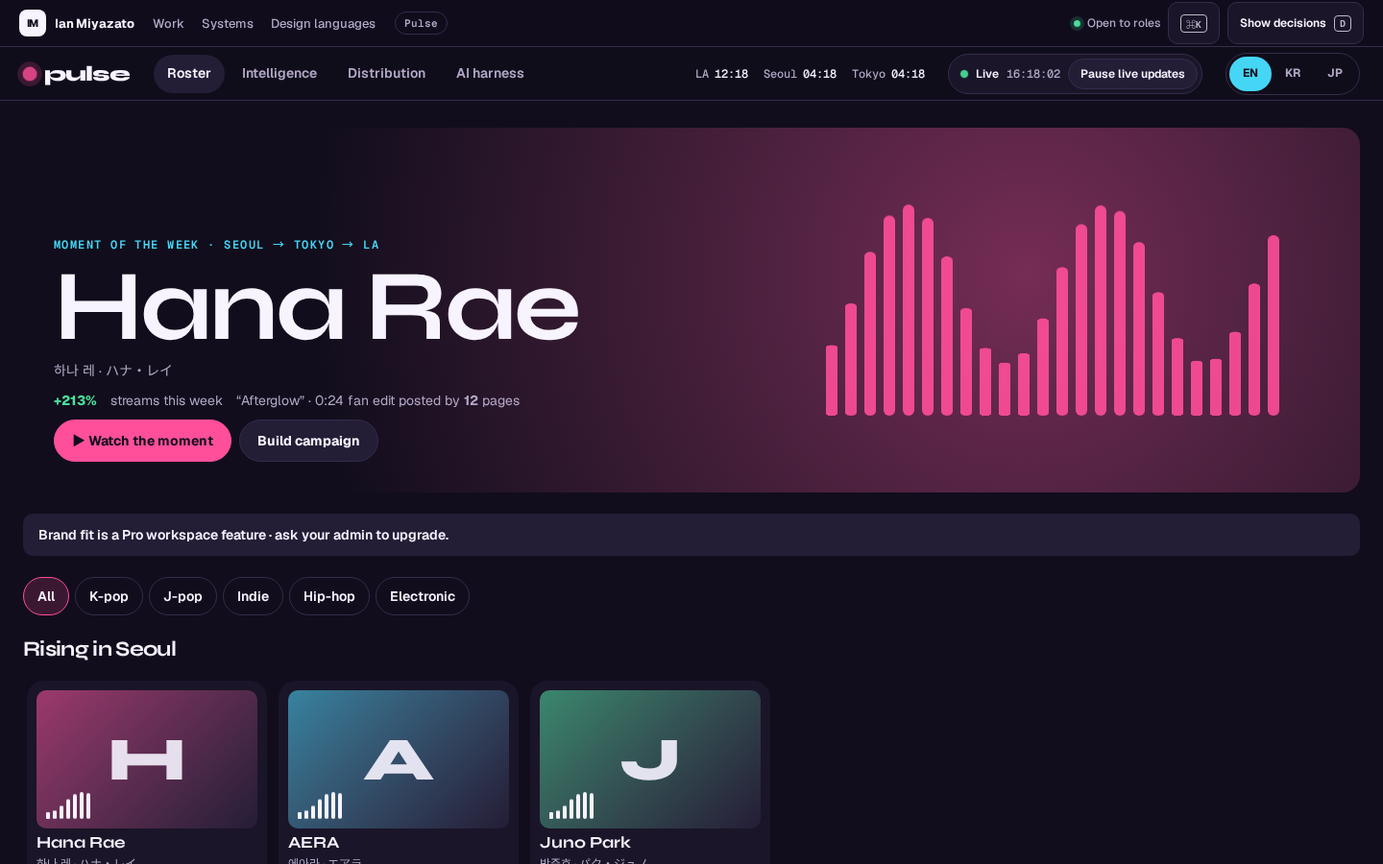
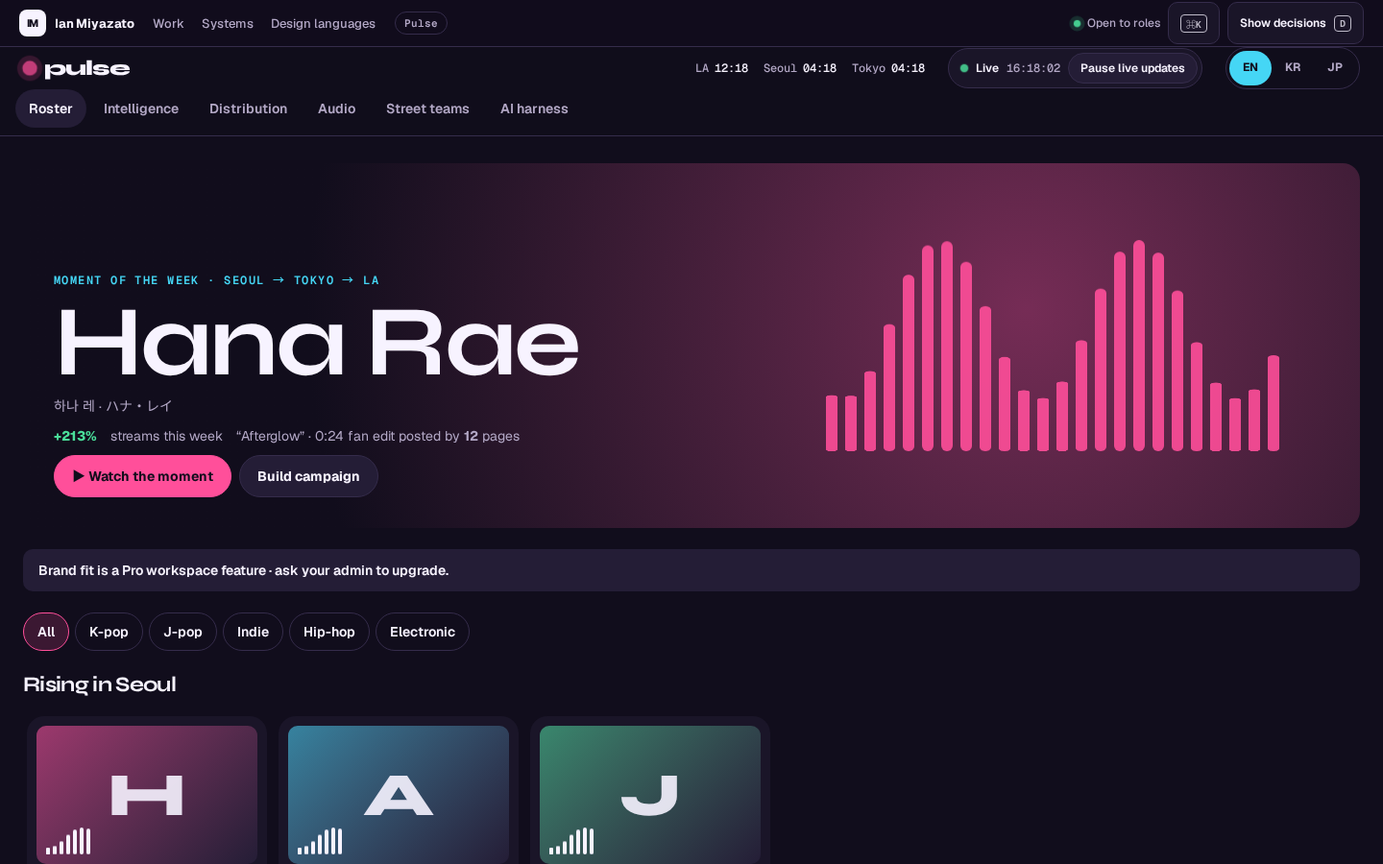
feat(pulse): street team dispatch on a drawn Seoul map, replayed on the world clock

diff --git a/apps/pulse/src/routes/street-teams/+page.svelte b/apps/pulse/src/routes/street-teams/+page.svelte
@@ -1,0 +1,119 @@
+<script lang="ts">
+  import { view } from '$lib/view.svelte';
+  import { live } from '$lib/world.svelte';
+  import { params } from '$lib/params.svelte';
+  import Layer from '$lib/Layer.svelte';
+  import { EVENT_AT, NEEDED, REPLAY_MINUTES, REPLAY_START, REROUTE_ID, SPEED, along, creators, districts, heat, kst, lengthOf, pathOf, reserve, river, roads, toHongdae, type Creator, type Point } from '$lib/streetteams';
+
+  type Trip = { creator: Creator; route: Point[]; start: number; minutes: number; toVenue: boolean };
+
+  const canceled = $derived(view.state === 'error');
+  // Replay minute (0–50 after 18:20 KST), driven by sim time: pause, 10× and 60× apply.
+  const minute = $derived((live.elapsed / 60) % REPLAY_MINUTES);
+  const clockKst = $derived(kst(REPLAY_START + minute));
+
+  let extra = $state<Trip[]>([]);
+  let rerouted = $state<Trip | null>(null);
+  let briefSent = $state(false);
+
+  const base = $derived<Trip[]>(creators.map((creator) => ({ creator, route: creator.route, start: creator.start, minutes: creator.minutes, toVenue: creator.id !== REROUTE_ID })));
+  const trips = $derived([...base.map((trip) => (rerouted && trip.creator.id === REROUTE_ID ? rerouted : trip)), ...extra]);
+  const progress = (trip: Trip) => Math.max(0, Math.min(1, (minute - trip.start) / trip.minutes));
+  const eta = (trip: Trip) => Math.max(0, Math.ceil(trip.start + trip.minutes - minute));
+  const onSite = $derived(trips.filter((trip) => trip.toVenue && progress(trip) >= 1).length);
+  const assigned = $derived(trips.filter((trip) => trip.toVenue).length);
+  const posts = $derived(Math.round(trips.filter((trip) => trip.toVenue).reduce((sum, trip) => sum + Math.max(0, minute - (trip.start + trip.minutes)) * 0.6, 0) + minute * 0.4));
+  const views = $derived(Math.round(posts * 3_850 + minute * 900));
+
+  function dispatch() {
+    if (extra.length) return;
+    extra = [{ creator: reserve, route: reserve.route, start: minute, minutes: reserve.minutes, toVenue: true }];
+  }
+  function acceptReroute() {
+    const trip = base.find((item) => item.creator.id === REROUTE_ID)!;
+    const from = along(trip.route, progress(trip));
+    const route: Point[] = [from, ...toHongdae];
+    rerouted = { creator: trip.creator, route, start: minute, minutes: Math.max(4, Math.round(lengthOf(route) / SPEED)), toVenue: true };
+  }
+</script>
+
+<svelte:head><title>Pulse · Street teams</title><meta name="description" content="Dispatch creators to a Seoul pop-up: fan-density heat, routes, ETAs and an AI re-route, replayed on the world clock." /></svelte:head>
+
+<main class="pl-main st" data-anchor="st-main">
+  <header class="st-head">
+    <div><span class="pl-kicker">Street teams · replay of last night, on the world clock</span><h1>Street teams</h1></div>
+    <p class="st-clock" data-anchor="st-clock"><span class="live-dot" aria-hidden="true"></span> Seoul <b>{clockKst}</b> KST · replay {Math.floor(minute)} of {REPLAY_MINUTES} min</p>
+  </header>
+
+  {#if canceled}<p class="pl-banner risk" role="status" data-anchor="st-canceled">Canceled for heavy rain at 18:05 KST · an automatic brief went to all {assigned} creators: “Stay dry, you're paid in full, reschedule vote at 20:00.”</p>{/if}
+
+  <div class="st-layout">
+    <section class="st-map" aria-label="Seoul map with fan density and creator routes" data-anchor="st-map">
+      <svg viewBox="0 0 800 520" role="img" aria-label="Fan density is highest in Hongdae. {onSite} creators on site, {assigned - onSite} en route.">
+        <defs>{#each heat as zone, index}<radialGradient id="heat-{index}"><stop offset="0" stop-color="var(--accent)" stop-opacity={zone.level * 0.7} /><stop offset="1" stop-color="var(--accent)" stop-opacity="0" /></radialGradient>{/each}</defs>
+        <rect width="800" height="520" class="st-land" />
+        {#each roads as d}<path {d} class="st-road" />{/each}
+        <path d={river} class="st-river" />
+        {#each heat as zone, index}<circle cx={zone.at[0]} cy={zone.at[1]} r={zone.r} fill="url(#heat-{index})" class="st-heat" />{/each}
+        {#each districts as district}<text x={district.at[0]} y={district.at[1] - 16} class="st-label">{district.name}</text>{/each}
+        <g class="st-pin" transform="translate(150 205)"><circle r="16" class="st-pulse" /><circle r="7" /></g>
+        <g class="st-pin backup" transform="translate(600 222)"><circle r="6" /></g>
+        {#each trips as trip (trip.creator.id)}
+          {@const [x, y] = along(trip.route, progress(trip))}
+          <path d={pathOf(trip.route)} class="st-route" class:off={canceled || !trip.toVenue} />
+          <g class="st-creator" class:arrived={progress(trip) >= 1} class:off={canceled} style="transform:translate({x}px,{y}px)"><circle r="9" /><text y="4">{trip.creator.name[0]}</text></g>
+        {/each}
+      </svg>
+    </section>
+
+    <aside class="st-side">
+      <section class="pl-panel st-event" aria-labelledby="st-event-title" data-anchor="st-event">
+        <header><h2 id="st-event-title">Hongdae pop-up · {kst(EVENT_AT)}</h2>{#if !canceled}<span class="st-surge">Surge · 2.3× fans</span>{/if}</header>
+        <p class="pl-muted">Needs {NEEDED} creators · {onSite} on site · {assigned - onSite} en route</p>
+        <div class="st-fill" role="progressbar" aria-label="Creators on site" aria-valuemin={0} aria-valuemax={NEEDED} aria-valuenow={onSite}><i style="transform:scaleX({canceled ? 0 : onSite / NEEDED})"></i><i class="pending" style="transform:scaleX({canceled ? 0 : Math.min(1, assigned / NEEDED)})"></i></div>
+        <ul class="st-list">
+          {#each trips as trip (trip.creator.id)}
+            <li class:muted={!trip.toVenue}>
+              <span class="st-av">{trip.creator.name[0]}</span>
+              <span><b>{trip.creator.name}</b> <span lang="ko">{trip.creator.local}</span><small>{trip.creator.followers} followers · from {trip.creator.from}</small></span>
+              <span class="st-status">{canceled ? 'released · paid' : !trip.toVenue ? 'to Seongsu backup' : progress(trip) >= 1 ? 'on site' : progress(trip) <= 0 ? `leaves in ${Math.ceil(trip.start - minute)} min` : `${eta(trip)} min away`}</span>
+            </li>
+          {/each}
+        </ul>
+        <div class="st-actions">
+          <button type="button" class="pl-btn primary" onclick={dispatch} disabled={canceled || extra.length > 0} data-anchor="st-dispatch">{extra.length ? 'Doyun dispatched' : 'Dispatch 1 more'}</button>
+          <button type="button" class="pl-btn" onclick={() => params.open({ brief: '1' })} disabled={canceled}>Broadcast brief</button>
+        </div>
+      </section>
+
+      <section class="pl-panel st-coverage" aria-labelledby="st-cov-title" data-anchor="st-coverage">
+        <h2 id="st-cov-title">Live coverage · last 40 min</h2>
+        <dl><div><dt>Posts</dt><dd>{canceled ? 0 : posts}</dd></div><div><dt>Views</dt><dd>{canceled ? 0 : views.toLocaleString('en-US')}</dd></div></dl>
+        {#if !canceled}
+          <section class="ai-surface ai-inline" aria-label="Simulated AI: re-route" data-anchor="st-reroute">
+            <header class="ai-head"><span class="ai-spark" aria-hidden="true"></span><span class="ai-badge">Simulated AI</span><span class="ai-meta">density · routes · followers</span></header>
+            <p class="ai-body">{rerouted ? 'Taeyang is now heading to Hongdae exit 9.' : 'Seongsu is quiet (0.55 density). Send Taeyang to Hongdae exit 9 instead: fans there are 2.3× and his 240k followers skew Seoul.'}</p>
+            <ul class="ai-sources"><li class="ai-source">fan density · Hongdae <b>0.92</b></li><li class="ai-source">route time <b>0.88</b></li></ul>
+            <div class="ai-actions"><button type="button" class="ai-approve" onclick={acceptReroute} disabled={Boolean(rerouted)}>{rerouted ? 'Re-routed' : 'Accept re-route'}</button></div>
+          </section>
+        {/if}
+      </section>
+    </aside>
+  </div>
+</main>
+
+{#if params.get('brief') === '1'}
+  <Layer title="Brief for {assigned} creators" eyebrow="Hongdae pop-up · {kst(EVENT_AT)} KST" onclose={() => params.close(['brief'])} width={560} anchor="st-brief">
+    <ul class="st-brief">
+      <li><b>Shot list</b> 3 verticals: the queue at exit 9, the Afterglow hook on the speakers, one reaction.</li>
+      <li><b>Captions</b> Korean first, English second; tag #Afterglow and the venue.</li>
+      <li><b>Timing</b> First post by 19:05, the rest before 19:40.</li>
+      <li><b>Pay</b> Base fee plus a bonus above 50k views, paid through the Pulse wallet.</li>
+    </ul>
+    {#if briefSent}<p class="pl-banner info" role="status">Brief sent to {assigned} creators · read receipts arrive here</p>{/if}
+    {#snippet footer()}
+      <button type="button" class="pl-btn primary" onclick={() => (briefSent = true)} disabled={briefSent}>{briefSent ? 'Sent' : `Send to ${assigned} creators`}</button>
+      <button type="button" class="pl-btn" onclick={() => params.close(['brief'])}>Close</button>
+    {/snippet}
+  </Layer>
+{/if}

diff --git a/apps/pulse/src/app.css b/apps/pulse/src/app.css
@@ -3,8 +3,10 @@
 .pl-nav { position: sticky; top: 48px; z-index: 60; display: flex; align-items: center; gap: 24px; min-height: 56px; padding: 0 24px; border-bottom: 1px solid var(--line); background: color-mix(in srgb, var(--ground) 90%, transparent); backdrop-filter: blur(12px); }
 .pl-logo { display: flex; align-items: center; gap: 8px; font: 800 22px var(--font-display); letter-spacing: -.04em; }
 .pl-logo i { width: 14px; height: 14px; border-radius: 50%; background: var(--accent); box-shadow: 0 0 0 5px color-mix(in srgb, var(--accent) 22%, transparent); animation: breathe 1.8s ease-in-out infinite; }
-.pl-nav nav { display: flex; gap: 4px; }
-.pl-nav nav a { display: inline-flex; align-items: center; min-height: 40px; padding: 0 14px; border-radius: 999px; color: var(--muted); font-weight: 600; }
+.pl-nav { flex-wrap: wrap; row-gap: 0; }
+/* Eight sections: the nav gets its own tab row under the logo, clocks and controls. */
+.pl-nav nav { order: 5; display: flex; gap: 4px; flex-basis: 100%; margin: 0 -8px; padding: 0 0 8px; overflow-x: auto; scrollbar-width: none; }
+.pl-nav nav a { display: inline-flex; align-items: center; flex: none; min-height: 40px; padding: 0 14px; white-space: nowrap; border-radius: 999px; color: var(--muted); font-weight: 600; }
 .pl-nav nav a[aria-current='page'] { background: var(--surface-2); color: var(--ink); }
 .pl-clocks { display: flex; gap: 16px; margin: 0 0 0 auto; padding: 0; list-style: none; font: 500 12px var(--font-mono); }
 .pl-clocks span { margin-right: 6px; color: var(--muted); }
@@ -248,3 +250,48 @@
 .pa-wave.small { width: 100%; height: 80px; }
 @media (prefers-reduced-motion: reduce) { .pa-record.spinning { animation: none; } .pa-playhead { transition: none; } }
 @media (max-width: 900px) { .pa-head { grid-template-columns: 1fr; } .pa-record { width: 120px; height: 120px; } .pa-grid { grid-template-columns: 1fr; } }
+
+/* Street team dispatch ------------------------------------------------------------------------------ */
+.st-head { display: flex; justify-content: space-between; align-items: end; gap: 12px; flex-wrap: wrap; }
+.st-head h1 { margin: 4px 0 0; font: var(--display-weight) 48px/1 var(--font-display); letter-spacing: var(--display-tracking); }
+.st-clock { display: inline-flex; align-items: center; gap: 8px; margin: 0; font: 500 13px var(--font-mono); }
+.st-clock b { font-size: 16px; color: var(--ink); }
+.st-layout { display: grid; grid-template-columns: minmax(0, 1fr) 400px; gap: 16px; align-items: start; }
+.st-map { overflow: hidden; border: 1px solid var(--line); border-radius: var(--radius); background: var(--surface); }
+.st-map svg { display: block; width: 100%; height: auto; }
+.st-land { fill: var(--surface); }
+.st-road { stroke: var(--line); stroke-width: 6; stroke-linecap: round; fill: none; }
+.st-river { fill: color-mix(in srgb, var(--ai) 22%, var(--surface-2)); }
+.st-label { fill: var(--muted); font: 600 13px var(--font-ui); text-anchor: middle; }
+.st-pin circle:last-child { fill: var(--accent); stroke: var(--ground); stroke-width: 3; }
+.st-pin.backup circle { fill: var(--muted); }
+.st-pulse { fill: none; stroke: var(--accent); stroke-width: 2; transform-box: fill-box; transform-origin: center; animation: pulse-ring 2s ease-out infinite; }
+.st-route { fill: none; stroke: var(--ai); stroke-width: 3; stroke-dasharray: 2 7; stroke-linecap: round; }
+.st-route.off { stroke: var(--muted); opacity: .5; }
+.st-creator { transition: transform 1s linear; }
+.st-creator circle { fill: var(--ai); stroke: var(--ground); stroke-width: 3; }
+.st-creator.arrived circle { fill: var(--success); }
+.st-creator.off circle { fill: var(--muted); }
+.st-creator text { fill: var(--ai-ink); font: 700 11px var(--font-ui); text-anchor: middle; }
+.st-side { display: grid; gap: 16px; }
+.st-event header { display: flex; justify-content: space-between; align-items: center; gap: 8px; }
+.st-event h2, .st-coverage h2 { margin: 0; }
+.st-surge { padding: 3px 10px; border-radius: 999px; background: var(--warn); color: var(--accent-ink); font: 700 12px var(--font-mono); }
+.st-fill { position: relative; height: 10px; overflow: hidden; border-radius: 10px; background: var(--surface-2); }
+.st-fill i { position: absolute; inset: 0; background: var(--success); transform-origin: left; transition: transform .6s var(--ease); z-index: 1; }
+.st-fill i.pending { z-index: 0; background: color-mix(in srgb, var(--ai) 40%, var(--surface-2)); }
+.st-list { display: grid; gap: 6px; margin: 0; padding: 0; list-style: none; }
+.st-list li { display: grid; grid-template-columns: 32px 1fr auto; gap: 10px; align-items: center; font-size: 14px; }
+.st-list li.muted { color: var(--muted); }
+.st-list small { display: block; color: var(--muted); font-size: 12px; }
+.st-av { display: grid; place-items: center; width: 32px; height: 32px; border-radius: 50%; background: var(--surface-2); font-weight: 700; }
+.st-status { font: 600 12px var(--font-mono); text-align: right; }
+.st-actions { display: flex; flex-wrap: wrap; gap: 8px; }
+.st-coverage dl { display: grid; grid-template-columns: 1fr 1fr; gap: 8px; margin: 0; }
+.st-coverage dt { color: var(--muted); font: 500 12px var(--font-mono); }
+.st-coverage dd { margin: 2px 0 0; font: 700 26px var(--font-display); font-variant-numeric: tabular-nums; }
+.st-brief { display: grid; gap: 8px; margin: 0; padding: 0; list-style: none; }
+.st-brief li { padding: 10px 12px; border-radius: var(--radius-sm); background: var(--surface-2); }
+.st-brief b { display: block; }
+@media (prefers-reduced-motion: reduce) { .st-pulse { animation: none; } .st-creator, .st-fill i { transition: none; } }
+@media (max-width: 1000px) { .st-layout { grid-template-columns: 1fr; } }

diff --git a/apps/pulse/src/lib/streetteams.ts b/apps/pulse/src/lib/streetteams.ts
@@ -1,0 +1,59 @@
+/**
+ * Street team dispatch for last night's Hongdae pop-up, replayed on the world clock: one second of
+ * sim time is one second of the replay, so Pause, 10× and 60× work here too. Map is drawn SVG (no tiles).
+ */
+export type Point = [number, number];
+export type Creator = { id: string; name: string; local: string; from: string; start: number; minutes: number; route: Point[]; followers: string };
+
+export const REPLAY_START = 18 * 60 + 20; // 18:20 KST, minutes after midnight
+export const EVENT_AT = 19 * 60; // 19:00 KST
+export const REPLAY_MINUTES = 50;
+export const NEEDED = 6;
+
+export const venue: Point = [150, 205];
+export const backupVenue: Point = [600, 222];
+export const districts: Array<{ name: string; at: Point }> = [
+  { name: 'Hongdae', at: [150, 205] }, { name: 'Sinchon', at: [240, 215] }, { name: 'Myeongdong', at: [400, 180] },
+  { name: 'Itaewon', at: [420, 300] }, { name: 'Seongsu', at: [600, 222] }, { name: 'Gangnam', at: [560, 410] }
+];
+export const heat: Array<{ at: Point; r: number; level: number }> = [
+  { at: [150, 205], r: 90, level: 1 }, { at: [600, 222], r: 60, level: 0.55 }, { at: [560, 410], r: 50, level: 0.35 }, { at: [400, 180], r: 45, level: 0.3 }
+];
+export const river = 'M0 330 C 120 300, 220 360, 330 340 S 520 280, 640 330 S 760 360, 800 340 L 800 372 C 740 392, 660 360, 560 364 S 360 380, 300 372 S 100 336, 0 362 Z';
+export const roads = ['M20 205 L780 222', 'M150 40 L150 500', 'M400 40 L420 500', 'M600 40 L560 500', 'M20 120 L780 140', 'M20 440 L780 430'];
+
+/** start = minutes after 18:20 the creator leaves; minutes = trip length. */
+export const creators: Creator[] = [
+  { id: 'jiwoo', name: 'Jiwoo', local: '지우', from: 'Seongsu', start: 0, minutes: 34, route: [[600, 222], [400, 214], [240, 215], [150, 205]], followers: '182k' },
+  { id: 'minseo', name: 'Minseo', local: '민서', from: 'Sinchon', start: 2, minutes: 12, route: [[240, 215], [190, 210], [150, 205]], followers: '96k' },
+  { id: 'taeyang', name: 'Taeyang', local: '태양', from: 'Itaewon', start: 0, minutes: 18, route: [[420, 300], [520, 262], [600, 222]], followers: '240k' },
+  { id: 'yuna', name: 'Yuna', local: '유나', from: 'Hongdae', start: 0, minutes: 4, route: [[170, 150], [150, 205]], followers: '58k' },
+  { id: 'haru', name: 'Haru', local: '하루', from: 'Myeongdong', start: 5, minutes: 22, route: [[400, 180], [400, 214], [240, 215], [150, 205]], followers: '131k' }
+];
+export const reserve: Creator = { id: 'doyun', name: 'Doyun', local: '도윤', from: 'Sinchon', start: 0, minutes: 11, route: [[240, 215], [200, 212], [150, 205]], followers: '74k' };
+
+/** Taeyang starts toward the quiet Seongsu backup; the AI re-route sends him to Hongdae exit 9 instead. */
+export const REROUTE_ID = 'taeyang';
+export const toHongdae: Point[] = [[410, 214], [240, 215], [150, 205]];
+/** Map pixels a creator covers per minute on the subway and on foot (used for rerouted trips). */
+export const SPEED = 13;
+
+export function along(route: Point[], fraction: number): Point {
+  const lengths = route.slice(1).map((point, index) => Math.hypot(point[0] - route[index]![0], point[1] - route[index]![1]));
+  const total = lengths.reduce((sum, length) => sum + length, 0);
+  let left = Math.max(0, Math.min(1, fraction)) * total;
+  for (let index = 0; index < lengths.length; index += 1) {
+    if (left <= lengths[index]!) {
+      const t = lengths[index] ? left / lengths[index]! : 0;
+      const a = route[index]!;
+      const b = route[index + 1]!;
+      return [a[0] + (b[0] - a[0]) * t, a[1] + (b[1] - a[1]) * t];
+    }
+    left -= lengths[index]!;
+  }
+  return route.at(-1)!;
+}
+
+export const lengthOf = (route: Point[]) => route.slice(1).reduce((sum, point, index) => sum + Math.hypot(point[0] - route[index]![0], point[1] - route[index]![1]), 0);
+export const pathOf = (route: Point[]) => `M${route.map(([x, y]) => `${x} ${y}`).join(' L')}`;
+export const kst = (minutes: number) => `${String(Math.floor(minutes / 60) % 24).padStart(2, '0')}:${String(Math.floor(minutes % 60)).padStart(2, '0')}`;

diff --git a/tests/e2e/pulse.spec.ts b/tests/e2e/pulse.spec.ts
@@ -78,4 +78,26 @@ test.describe('Pulse', () => {
     await expect(page.getByText('Forecast · week 1')).toBeVisible();
     await expect(page.getByText(/Pre-release · no listening data yet/)).toBeVisible();
   });
+
+  test('street teams: replay on the world clock, dispatch, re-route and brief', async ({ page }) => {
+    await page.goto('/pulse/street-teams?t=16:40&live=paused');
+    await expect(page.getByText('Seoul 18:42 KST · replay 22 of 50 min')).toBeVisible();
+    await expect(page.getByText('Needs 6 creators · 2 on site · 2 en route')).toBeVisible();
+    await page.getByRole('button', { name: 'Dispatch 1 more' }).click();
+    await expect(page.getByText('Needs 6 creators · 2 on site · 3 en route')).toBeVisible();
+    await page.getByRole('button', { name: 'Accept re-route' }).click();
+    await expect(page.getByText('Taeyang is now heading to Hongdae exit 9.')).toBeVisible();
+    await expect(page.getByText('Needs 6 creators · 2 on site · 4 en route')).toBeVisible();
+    await page.getByRole('button', { name: 'Broadcast brief' }).click();
+    const brief = page.getByRole('dialog', { name: 'Brief for 6 creators' });
+    await brief.getByRole('button', { name: 'Send to 6 creators' }).click();
+    await expect(brief.getByText(/Brief sent to 6 creators/)).toBeVisible();
+  });
+
+  test('street teams: a weather cancellation releases and pays every creator', async ({ page }) => {
+    await page.goto('/pulse/street-teams?state=error');
+    await expect(page.getByText(/Canceled for heavy rain at 18:05 KST/)).toBeVisible();
+    await expect(page.getByText('released · paid').first()).toBeVisible();
+    await expect(page.getByRole('button', { name: 'Dispatch 1 more' })).toBeDisabled();
+  });
 });

diff --git a/packages/routes/src/routes.manifest.ts b/packages/routes/src/routes.manifest.ts
@@ -147,6 +147,7 @@ export const routes: RouteEntry[] = [
   { id: 'pulse-roster', system: 'pulse', title: 'Roster', href: '/pulse', zone: 'pulse', owner: pulse, board: 'PU-roster', heading: 'Hana Rae', release: '0.2', checked: '2026-09-27', mobile: true },
   { id: 'pulse-intelligence', system: 'pulse', title: 'Intelligence', href: '/pulse/intelligence', zone: 'pulse', owner: pulse, board: 'PU-intelligence', heading: 'Performance intelligence', release: '0.1', mobile: true },
   { id: 'pulse-audio', system: 'pulse', title: 'Audio intelligence', href: '/pulse/audio/afterglow', zone: 'pulse', owner: pulse, board: 'PU-audio', heading: 'Afterglow', release: '0.2', checked: '2026-09-27' },
+  { id: 'pulse-street-teams', system: 'pulse', title: 'Street teams', href: '/pulse/street-teams', zone: 'pulse', owner: pulse, board: 'PU-dispatch', heading: 'Street teams', release: '0.2', checked: '2026-09-27' },
   { id: 'pulse-distribution', system: 'pulse', title: 'Distribution', href: '/pulse/distribution', zone: 'pulse', owner: pulse, board: 'PU-distribution', heading: 'Distribution', release: '0.1' },
   { id: 'pulse-harness', system: 'pulse', title: 'AI harness', href: '/pulse/harness', zone: 'pulse', owner: pulse, board: 'PU-harness', heading: 'AI harness', release: '0.1' },
   { id: 'system-design-pulse', system: 'pulse', title: 'Pulse system design', href: '/system-design/pulse', zone: 'shell', owner: shell, board: 'SD-pulse', heading: 'Decisions under load', release: '0.1' },

diff --git a/apps/pulse/src/routes/+layout.svelte b/apps/pulse/src/routes/+layout.svelte
@@ -19,6 +19,7 @@
     { href: `${base}/intelligence`, key: 'intelligence' },
     { href: `${base}/distribution`, key: 'distribution' },
     { href: `${base}/audio/afterglow`, key: 'audio' },
+    { href: `${base}/street-teams`, key: 'streetTeams' },
     { href: `${base}/harness`, key: 'harness' }
   ] as const;
   const current = (href: string) => (page.url.pathname.replace(/\/$/, '') || base) === href;

diff --git a/docs/agents/changelog.md b/docs/agents/changelog.md
@@ -4,6 +4,8 @@ One line per merged micro-task, newest first.
 
 ## v0.2
 
+- 2026-09-27 · `feat(pulse)`: Street team dispatch at `/pulse/street-teams` (ride-hailing pattern), a new nav item: a drawn SVG Seoul map (river, roads, districts, fan-density heat, pulsing venue) with creators moving along routes, an event panel (Hongdae pop-up · 19:00, needs 6, surge badge, fill bar, ETAs), Dispatch 1 more, a Broadcast brief modal, live coverage counters and a simulated-AI re-route that animates the creator's new path on approval; it replays last night's pop-up on the world clock (labeled as a replay, since it's early morning in Seoul at 16:18 in São Paulo), and a weather-cancel variation releases and pays everyone. The Pulse nav moves to its own tab row.
+
 - 2026-09-27 · `feat(pulse)`: Audio intelligence at `/pulse/audio/afterglow` (music-streaming pattern), a new Audio nav item: a spinning record header with live streams, save rate and early skip; a full-width waveform from pre-computed JSON with a replay/skip heat strip and the hook highlighted; streams by market, the listener journey funnel, playlist placements with moves and "sounds like" neighbors; a simulated-AI "cut a 28 s vertical of the hook for Tokyo" that adds a draft to Distribution only on approval. `<im-now-playing>` is mounted in the Pulse layout, so Play keeps going across Pulse pages (same element as Atlas); a pre-release variation shows forecasts only.
 
 - 2026-09-27 · `feat(pulse)`: Roster becomes the Pulse home at `/pulse` (Intelligence moves to `/pulse/intelligence`; new nav items start here): a billboard for the moment of the week (Hana Rae, +212%, Watch the moment modal and Build campaign), genre filters, and four rows (Rising in Seoul, Moments this week, Tokyo crossover, LA breakouts) whose cards expand after hover intent or on focus to show a live equalizer, brand fit against the portfolio's own brands, and Pitch to brand: a fit breakdown and a simulated-AI pitch that sends only on approval. Momentum and fan-edit counts move with the world clock; the empty variation shows a designed empty row. Pulse gains a Svelte `Layer` on the shared overlay stack and reactive URL params.

diff --git a/docs/agents/parity.md b/docs/agents/parity.md
@@ -75,8 +75,9 @@ Every approved screen, the design board it is checked against, and its screensho
 | 67 | `/pulse` | PU-roster | Pulse | 0.2 | — | ✅ 2026-09-27 | `docs/screenshots/pulse/pulse-roster.png` |
 | 68 | `/pulse/intelligence` | PU-intelligence | Pulse | 0.1 | — | ✅ 2026-09-26 | `docs/screenshots/pulse/pulse-intelligence.png` |
 | 69 | `/pulse/audio/afterglow` | PU-audio | Pulse | 0.2 | — | ✅ 2026-09-27 | `docs/screenshots/pulse/pulse-audio.png` |
-| 70 | `/pulse/distribution` | PU-distribution | Pulse | 0.1 | — | ✅ 2026-09-26 | `docs/screenshots/pulse/pulse-distribution.png` |
-| 71 | `/pulse/harness` | PU-harness | Pulse | 0.1 | — | ✅ 2026-09-26 | `docs/screenshots/pulse/pulse-harness.png` |
-| 72 | `/system-design/pulse` | SD-pulse | Pulse | 0.1 | — | ✅ 2026-09-26 | `docs/screenshots/pulse/system-design-pulse.png` |
+| 70 | `/pulse/street-teams` | PU-dispatch | Pulse | 0.2 | — | ✅ 2026-09-27 | `docs/screenshots/pulse/pulse-street-teams.png` |
+| 71 | `/pulse/distribution` | PU-distribution | Pulse | 0.1 | — | ✅ 2026-09-26 | `docs/screenshots/pulse/pulse-distribution.png` |
+| 72 | `/pulse/harness` | PU-harness | Pulse | 0.1 | — | ✅ 2026-09-26 | `docs/screenshots/pulse/pulse-harness.png` |
+| 73 | `/system-design/pulse` | SD-pulse | Pulse | 0.1 | — | ✅ 2026-09-26 | `docs/screenshots/pulse/system-design-pulse.png` |
 
-Parity: **72/72**.
+Parity: **73/73**.
